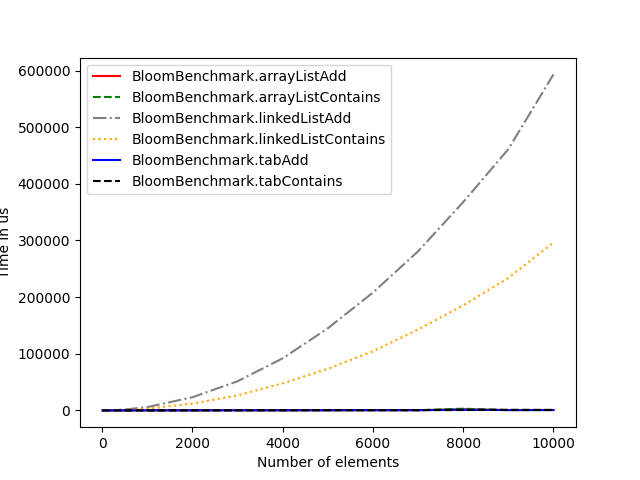
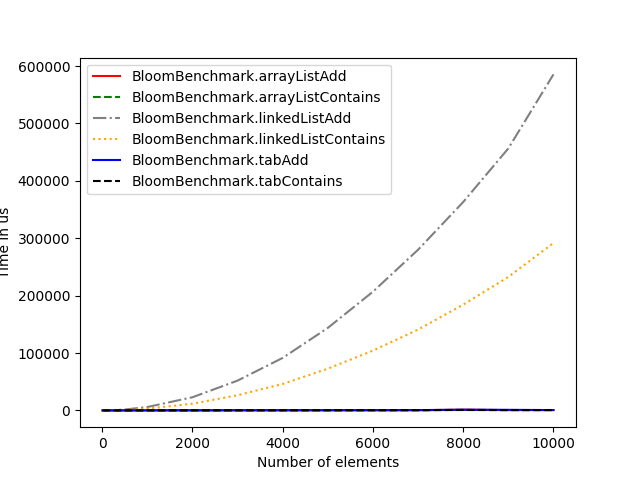
Modified readme

diff --git a/bloom_filter/src/main/java/fr/redover/BloomBenchmark.java b/bloom_filter/src/main/java/fr/redover/BloomBenchmark.java
@@ -32,9 +32,9 @@ public class BloomBenchmark {
     // Init bloom filters with different storage types
     @Setup(Level.Invocation)
     public void setUp() throws NoSuchAlgorithmException {
-        bloomFilterArrayList = new BloomFilter(elemNums, 1, 0.1);
-        bloomFilterLinkedList = new BloomFilter(elemNums, 2, 0.1);
-        bloomFilterTab = new BloomFilter(elemNums, 3, 0.1);
+        bloomFilterArrayList = new BloomFilter(elemNums, 1, 0.01);
+        bloomFilterLinkedList = new BloomFilter(elemNums, 2, 0.01);
+        bloomFilterTab = new BloomFilter(elemNums, 3, 0.01);
     }
 
     @Benchmark

diff --git a/README.md b/README.md
@@ -12,10 +12,39 @@ To test the performance of the Bloom Filter, I used a Benchark class. The benchm
 
 ## Results
 ![bench1](img/bench1.png)  
-Here is the result of the benchmark with larger and larger number of elements. We can see that the arrayList is the slowest storage type, with a complexity that seems exponential, while the ArrayList and table storage types seems to have a linear complexity.
+```
+BloomBenchmark.arrayListAdd              7000  avgt    5     409,776 ±    396,579  us/op
+BloomBenchmark.arrayListContains         7000  avgt    5     393,195 ±    302,983  us/op
+BloomBenchmark.linkedListAdd             7000  avgt    5  279928,060 ±  11075,822  us/op
+BloomBenchmark.linkedListContains        7000  avgt    5  140827,180 ±   5994,355  us/op
+BloomBenchmark.tabAdd                    7000  avgt    5     493,989 ±   1454,171  us/op
+BloomBenchmark.tabContains               7000  avgt    5     379,203 ±    256,367  us/op
+```
+Here is the result of the benchmark with larger and larger number of elements. We can see that the arrayList is the slowest storage type, with a complexity that seems exponential, while the ArrayList and table storage types seems to have a linear complexity. There is already a function to calculate the optimal size of the Bloom Filter. It is calculated as 
+```java
+Math.ceil((n * Math.log(desiredFalsePositiveRate)) / Math.log(1.0 / (Math.pow(2.0, Math.log(2.0)))))
+```
+where `n` is the number of elements to add to the Bloom Filter and `desiredFalsePositiveRate` is the desired false positive rate (here 0.01).
+
+----
+![bench2](img/bench2.png)  
+```
+BloomBenchmark.arrayListAdd              7000  avgt    5     613,887 ±   440,327  us/op
+BloomBenchmark.arrayListContains         7000  avgt    5     540,762 ±   415,092  us/op
+BloomBenchmark.linkedListAdd             7000  avgt    5  280871,820 ±  5605,365  us/op
+BloomBenchmark.linkedListContains        7000  avgt    5  141705,320 ±  2929,759  us/op
+BloomBenchmark.tabAdd                    7000  avgt    5     522,676 ±   409,755  us/op
+BloomBenchmark.tabContains               7000  avgt    5     527,860 ±   352,732  us/op
+```
+I then added a function to calculate the optimal number of hashes as per wikipedia (https://en.wikipedia.org/wiki/Bloom_filter#Optimal_number_of_hash_functions). The optimal number of hashes is calculated as
+```java
+Math.ceil((m / n) * Math.log(2.0))
+```
+where `m` is the size of the Bloom Filter and `n` is the number of elements to add to it. I then ran the benchmark again with the optimal number of hashes. We can see that the difference is not very significant, it is within the error margin.
+
 
 ## Why does the results differ
 The results differ because the linkedList has a complexity of O(n) for adding elements, while the ArrayList and table have a complexity of O(1). 
 
 ## What can we learn from this
-Using the linkedList for a BloomFilter is suboptimal and should be avoided.
+Using the linkedList for a BloomFilter is suboptimal and should be avoided. The algorithmic complexity of the LinkedList is orders of magnitude worse than the complexity of the ArrayList and the table.
